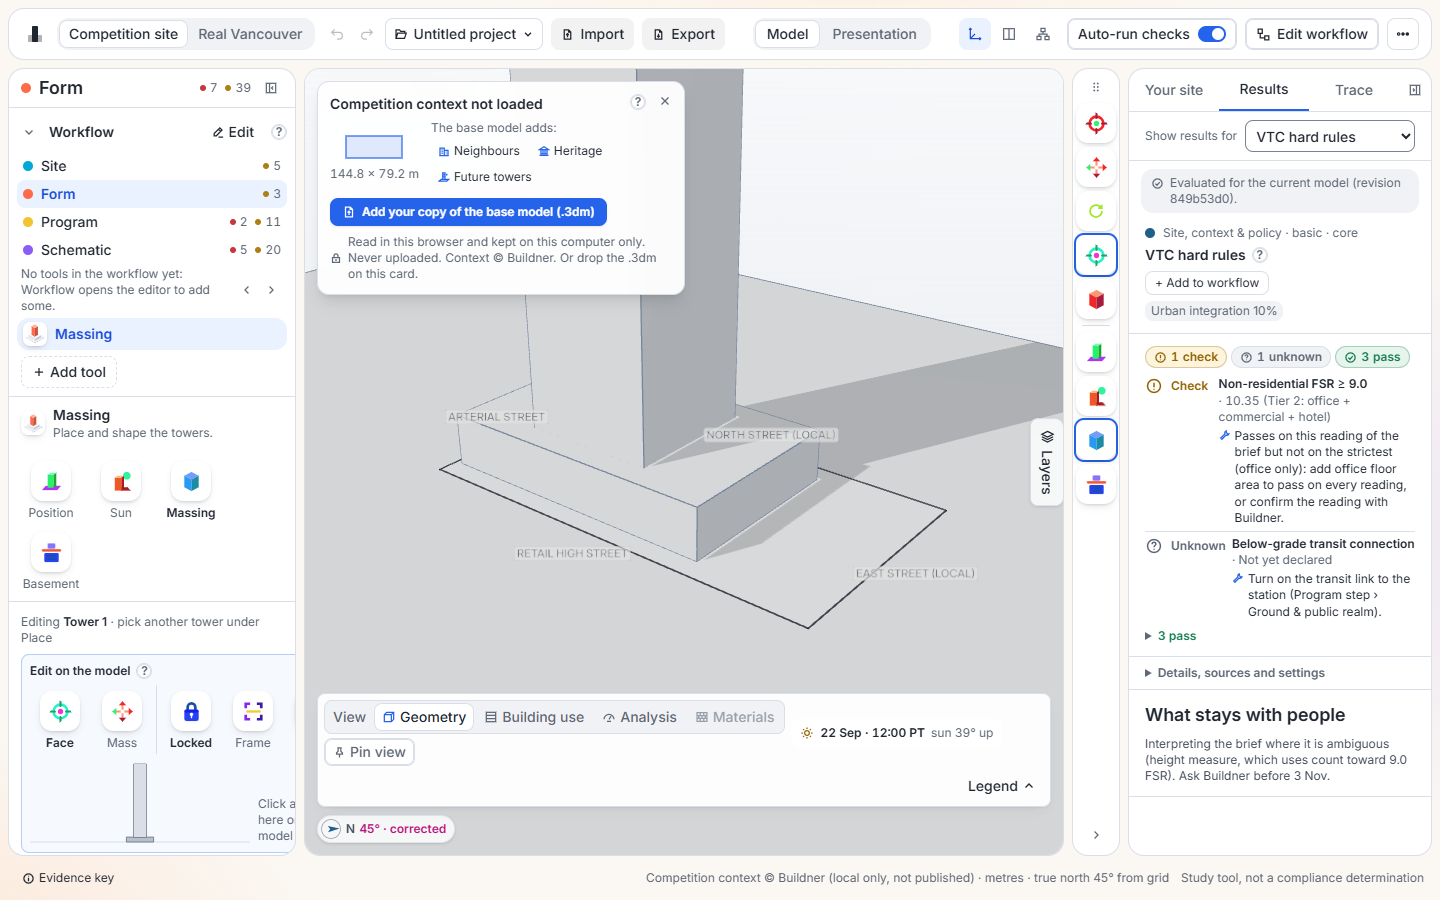
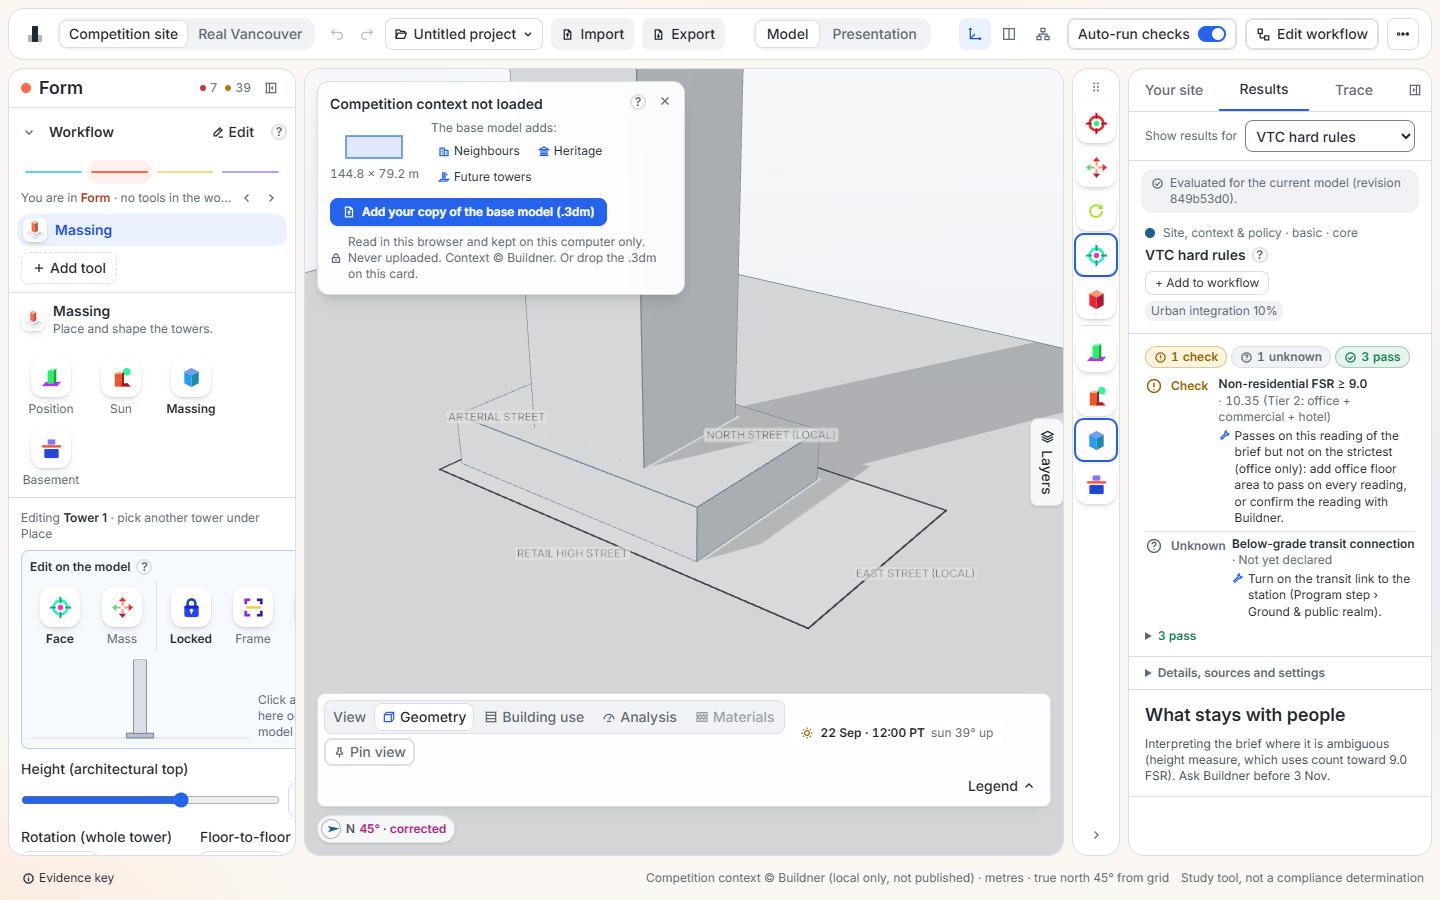
Workflow block: the phase rows go; the line's coloured segments and the arrows change phase (Ruijie, 17 Nov)
"Remove all the Site / Form / Program / Schematic text … the left and right arrows can be the buttons for changing
which phase you are in." One coloured segment per phase on the dots line, the current one tinted, each a button with
the phase's name and counts for the keyboard and screen readers and the same data-phase / data-step hooks as before;
its tools as dots inside, named on hover with their results. The arrows step the design phases, disabled at the ends.

Changed region(s): [[0.0, 0.1867, 0.2188, 0.9644], [0.1562, 0.1867, 0.1875, 0.2178], [0.125, 0.2178, 0.1562, 0.2489]]

diff --git a/src/components/workflow/PhasePanel.tsx b/src/components/workflow/PhasePanel.tsx
@@ -26,6 +26,7 @@ import { PHASE_COLOR, UI } from '../../lib/design/tokens'
 import { PHASES, type PhaseId } from '../../lib/phases'
 import { MODE_NAME, modeOfPhase, phasesOf, type Mode } from '../../lib/mode'
 import { usePhaseCounts, type PhaseCounts } from '../../lib/workflow/phaseCounts'
+import { useNodeSummaries } from '../../hooks/useNodeSummaries'
 import type { NodePackage } from '../../lib/nodePackages'
 import { togglePanel, usePanels } from '../../lib/panels'
 import { goToStep, useStep } from '../../lib/step'
@@ -144,16 +145,15 @@ function PhaseWorkflow({ phase, mode, counts, rows, design, active, open, info, 
           <span className="ml-auto flex items-center gap-1 rounded-lg border border-line bg-panel px-2 py-0.5 text-control text-ink group-hover:border-accent group-hover:text-accent-hover"><PencilLine size={13} aria-hidden />Edit</span>
         </button>
         <Help label={`About the ${PHASE_NAME[phase]} workflow`}>
-          The dots are your whole workflow in working order, coloured by phase; the tinted ones are {PHASE_NAME[phase]}, where you are, and an arc is a loop back to an earlier tool (hover a dot for its name). Under them are the {PHASE_NAME[phase]} tools: click one to open its controls below (a check's results open on the right). Workflow (or Edit) opens the editor in the centre view, where you add tools from the shelf, drag them, connect them and make loops, then Confirm to come back here. A loop is a route for revisiting work: it never reruns anything on its own.
+          The line is your whole workflow in working order, one coloured segment per phase; the tinted one is {PHASE_NAME[phase]}, where you are. Click a segment or use the arrows under the line to change phase; hover a dot for its tool and its results; an arc is a loop back to an earlier tool. Under them are the {PHASE_NAME[phase]} tools: click one to open its controls below (a check's results open on the right). Workflow (or Edit) opens the editor in the centre view, where you add tools from the shelf, drag them, connect them and make loops, then Confirm to come back here. A loop is a route for revisiting work: it never reruns anything on its own.
         </Help>
       </div>
-      <PhaseList phase={phase} mode={mode} counts={counts} />
+      <PhaseLine board={board} phase={phase} mode={mode} active={active} info={info} home={home} counts={counts} />
 
       {collapsed
         ? <button type="button" onClick={() => usePhaseTools.getState().setCollapsed(false)} className="mx-3 mt-1 block max-w-[calc(100%-1.5rem)] truncate rounded px-1 text-left text-meta text-ink outline-none hover:bg-subtle focus-visible:ring-2 focus-visible:ring-accent" title="Show the workflow">{summary}{loops ? ' ↻' : ''}</button>
         : (
           <>
-            <PhaseMap board={board} phase={phase} mode={mode} active={active} info={info} home={home} />
             <div className="mt-1 max-h-[13.5rem] overflow-y-auto overscroll-contain" style={{ scrollbarWidth: 'thin' }} data-testid="phase-workflow-region">
               <ol aria-label={`${PHASE_NAME[phase]} tools, in working order`} data-testid="phase-rows" className="px-2">
                 {rows.map((id) => {
@@ -187,50 +187,88 @@ function PhaseWorkflow({ phase, mode, counts, rows, design, active, open, info, 
 }
 
 /**
- * The whole workflow at a glance: every tool as a dot in working order, coloured by its phase, on one line from start to
- * end; the dots of the phase you are in sit on a tint, the open tool is ringed, and each loop is an arc back over the
- * line. A picture, not a row of buttons: with many tools the dots are far smaller than a 24 px target (interface gate,
- * UI07), so tools open from the list under it and the editor; each dot names its tool on hover and to screen readers.
+ * The phases and the whole workflow on one line (Ruijie, 17 Nov: "remove all the Site / Form / Program / Schematic text
+ * … the left and right arrows can be the buttons for changing which phase you are in"). One coloured segment per phase
+ * of the mode, as wide as its share of tools (at least one share, so an empty phase still shows its colour), the one
+ * you are in on a tint; a click or the arrow keys on a segment go there (it is the phase navigation: the
+ * "Design process" landmark with each phase's hooks). Inside each segment, its tools as dots in working order, the
+ * open one ringed; hovering a dot names its phase and tool with the tool's pass / check / fail words (hooks/
+ * useNodeSummaries.ts), and a click on a dot goes to its phase. Loops are arcs over the line. Under it, where you are,
+ * and the arrows to the previous and the next phase of the mode (never wrapping; Presentation is the top bar's switch).
  */
-function PhaseMap({ board, phase, mode, active, info, home }: { board: Board; phase: PhaseId; mode: Mode; active: string; info: (id: string) => Info; home: (id: string) => PhaseId }) {
+function PhaseLine({ board, phase, mode, active, info, home, counts }: { board: Board; phase: PhaseId; mode: Mode; active: string; info: (id: string) => Info; home: (id: string) => PhaseId; counts: PhaseCounts }) {
+  const phases = phasesOf(mode)
   const phaseOf = (id: string): PhaseId => designNode(id)?.phase ?? home(id)
-  // Only this mode's phases (17 Nov): Presentation's tools stay out of the Model line, and the other way round.
-  const order = useMemo(() => { const ps = phasesOf(mode); return runOrder(board).filter((id) => ps.includes(designNode(id)?.phase ?? home(id))) }, [board, mode, home])
+  // Only this mode's phases: Presentation's tools stay out of the Model line, and the other way round.
+  const order = useMemo(() => runOrder(board).filter((id) => phases.includes(designNode(id)?.phase ?? home(id))), [board, phases, home])
   const back = useMemo(() => returnEdges(board.edges), [board.edges])
-  // An empty workflow still has Back and Next: the phases are there before any tool is.
-  if (!order.length) return <div className="mx-3 mt-0.5 flex items-center gap-1" data-testid="phase-map"><p className="min-w-0 flex-1 text-meta text-muted">No tools in the workflow yet: Workflow opens the editor to add some.</p><PhaseNav phase={phase} /></div>
-  const n = order.length, x = (id: string) => ((order.indexOf(id) + 0.5) / n) * 100
+  const summaries = useNodeSummaries()
+  const segs = phases.map((p) => ({ p, nodes: order.filter((id) => phaseOf(id) === p) }))
+  const total = segs.reduce((acc, g) => acc + Math.max(1, g.nodes.length), 0)
+  // A node's place along the line, in per cent: its segment's start plus its share of the segment.
+  const x = (id: string) => {
+    let off = 0
+    for (const g of segs) { const w = Math.max(1, g.nodes.length), j = g.nodes.indexOf(id); if (j >= 0) return ((off + ((j + 0.5) / g.nodes.length) * w) / total) * 100; off += w }
+    return 0
+  }
   const loops = board.edges.filter((e) => back.has(edgeKey(e)) && order.includes(e.a) && order.includes(e.b))
-  const here = order.filter((id) => phaseOf(id) === phase).length
+  const n = order.length, here = order.filter((id) => phaseOf(id) === phase).length
+  const onKey = (e: KeyboardEvent<HTMLButtonElement>) => {
+    const i = phases.indexOf(phase)
+    const j = e.key === 'ArrowRight' || e.key === 'ArrowDown' ? i + 1 : e.key === 'ArrowLeft' || e.key === 'ArrowUp' ? i - 1 : e.key === 'Home' ? 0 : e.key === 'End' ? phases.length - 1 : null
+    if (j === null) return
+    e.preventDefault()
+    const next = phases[(j + phases.length) % phases.length]
+    goToStep(PHASE_STEP[next])
+    document.querySelector<HTMLElement>(`nav[aria-label="Design process"] [data-phase="${next}"]`)?.focus()
+  }
+  const words = (p: PhaseId) => { const c = counts[p]; return c && (c.fail || c.warn) ? `, ${[c.fail ? `${c.fail} fail` : '', c.warn ? `${c.warn} check` : ''].filter(Boolean).join(', ')}` : '' }
   return (
-    <div className="mx-3 mt-0.5" data-testid="phase-map">
+    <nav aria-label="Design process" data-testid="phase-line" className="mx-3 mt-0.5">
       <svg viewBox="0 0 100 10" preserveAspectRatio="none" className="block h-2.5 w-full overflow-visible" aria-hidden>
         {loops.map((e) => <path key={edgeKey(e)} data-map-loop={edgeKey(e)} d={`M${x(e.a)},10 C${x(e.a)},0 ${x(e.b)},0 ${x(e.b)},10`} fill="none" stroke={UI.edge} strokeWidth={1.2} strokeDasharray="3 2" vectorEffect="non-scaling-stroke" />)}
       </svg>
-      <div className="relative">
-        <span aria-hidden className="absolute inset-x-1 top-1/2 h-px -translate-y-1/2 bg-boundary" />
-        <ol className="relative flex" aria-label="The whole workflow, in working order">
-          {order.map((id, i) => {
-            const ph = phaseOf(id), on = ph === phase, open = id === active
-            const prevOn = i > 0 && phaseOf(order[i - 1]) === phase, nextOn = i < n - 1 && phaseOf(order[i + 1]) === phase
-            return (
-              <li key={id} className="min-w-0 flex-1">
-                <span data-map-node={id} data-here={on ? '' : undefined} title={`${i + 1}. ${PHASE_NAME[ph]} / ${info(id).name}`}
-                  className={`flex h-6 w-full items-center justify-center ${on && !prevOn ? 'rounded-l-full' : ''} ${on && !nextOn ? 'rounded-r-full' : ''}`}
-                  style={{ background: on ? PHASE_COLOR[ph].surface : undefined }}>
-                  <span aria-hidden className="block rounded-full" style={{ width: open ? 10 : 7, height: open ? 10 : 7, background: PHASE_COLOR[ph].accent, boxShadow: open ? `0 0 0 2px #fff, 0 0 0 3.5px ${PHASE_COLOR[ph].ink}` : undefined }} />
-                  <span className="sr-only">{i + 1} of {n}: {PHASE_NAME[ph]} / {info(id).name}{open ? ' (open)' : ''}</span>
+      <ol role="list" aria-label="The phases, each with its tools in working order" data-testid="phase-map" className="flex gap-px">
+        {segs.map(({ p, nodes }) => {
+          const lit = p === phase, about = PHASES.find((ph) => ph.id === p)?.about
+          return (
+            <li key={p} className="relative min-w-0" style={{ flex: `${Math.max(1, nodes.length)} 1 0%` }}>
+              {/* The phase itself: its hook, name and counts for the keyboard and screen readers; the tint when you are in it.
+                  Its colour line and its dots sit inside the button, so a click on a dot is a click on the phase. */}
+              <button type="button" onClick={() => goToStep(PHASE_STEP[p])} onKeyDown={onKey} aria-current={lit ? 'step' : undefined} tabIndex={lit ? 0 : -1} data-step={PHASE_STEP[p]} data-phase={p}
+                aria-label={`${PHASE_NAME[p]}: ${nodes.length} tool${nodes.length === 1 ? '' : 's'}${words(p)}`} title={`${PHASE_NAME[p]}${about ? ` · ${about}` : ''}`}
+                className={`relative block h-6 w-full rounded-full outline-none focus-visible:ring-2 focus-visible:ring-accent ${lit ? '' : 'hover:bg-subtle'}`} style={{ background: lit ? PHASE_COLOR[p].surface : undefined }}>
+                {/* Its colour, always, so the categories read without words. */}
+                <span aria-hidden className="pointer-events-none absolute inset-x-1 top-1/2 h-[2px] -translate-y-1/2 rounded-full" style={{ background: PHASE_COLOR[p].accent, opacity: lit ? 1 : 0.6 }} />
+                <span aria-hidden className="absolute inset-0 flex">
+                  {nodes.map((id) => {
+                    const open = id === active, sum = summaries[id]
+                    return (
+                      <span key={id} data-map-node={id} data-here={lit ? '' : undefined} title={`${PHASE_NAME[p]} / ${info(id).name}${sum ? ` · ${sum}` : ''}`} className="flex min-w-0 flex-1 items-center justify-center">
+                        <span className="block rounded-full" style={{ width: open ? 10 : 7, height: open ? 10 : 7, background: PHASE_COLOR[p].accent, boxShadow: open ? `0 0 0 2px #fff, 0 0 0 3.5px ${PHASE_COLOR[p].ink}` : '0 0 0 1.5px #fff' }} />
+                      </span>
+                    )
+                  })}
                 </span>
-              </li>
-            )
-          })}
-        </ol>
-      </div>
+              </button>
+              {/* The tools of the phase for screen readers (the dots are drawn, not read). */}
+              {nodes.length > 0 && (
+                <ul className="sr-only">
+                  {nodes.map((id) => { const sum = summaries[id]; return <li key={id}>{order.indexOf(id) + 1} of {n}: {PHASE_NAME[p]} / {info(id).name}{sum ? `, ${sum}` : ''}{id === active ? ' (open)' : ''}</li> })}
+                </ul>
+              )}
+            </li>
+          )
+        })}
+      </ol>
       <div className="mt-0.5 flex items-center gap-1">
-        <p className="min-w-0 flex-1 truncate text-meta text-muted">You are in <span className="font-semibold" style={{ color: PHASE_COLOR[phase].ink }}>{PHASE_NAME[phase]}</span>: {here} of {n} tools{loops.length ? ` · ${loops.length} loop${loops.length > 1 ? 's' : ''}` : ''}</p>
-        <PhaseNav phase={phase} />
+        <p className="min-w-0 flex-1 truncate text-meta text-muted">
+          {n ? <>You are in <span className="font-semibold" style={{ color: PHASE_COLOR[phase].ink }}>{PHASE_NAME[phase]}</span>: {here} of {n} tools{loops.length ? ` · ${loops.length} loop${loops.length > 1 ? 's' : ''}` : ''}</>
+            : <>You are in <span className="font-semibold" style={{ color: PHASE_COLOR[phase].ink }}>{PHASE_NAME[phase]}</span> · no tools in the workflow yet: Edit adds some</>}
+        </p>
+        <PhaseNav phase={phase} mode={mode} />
       </div>
-    </div>
+    </nav>
   )
 }
 
@@ -251,53 +289,14 @@ function Counts({ c }: { c: { fail: number; warn: number } }) {
   )
 }
 
-/**
- * The phases of the mode, one short row each (Ruijie, 17 Nov: "keep the phase colours and their categories, but make it
- * simpler and save more space"): its colour dot, its name and its fail / check counts; the one you are in lit. This is
- * the phase navigation (the row under the top bar went the same day): a click goes there, the arrow keys move along it,
- * Home and End to the ends. What a phase is for shows on hover. In Presentation the list is that mode's one phase.
- */
-function PhaseList({ phase, mode, counts }: { phase: PhaseId; mode: Mode; counts: PhaseCounts }) {
-  const phases = phasesOf(mode)
-  const onKey = (e: KeyboardEvent<HTMLButtonElement>) => {
-    const i = phases.indexOf(phase)
-    const j = e.key === 'ArrowRight' || e.key === 'ArrowDown' ? i + 1 : e.key === 'ArrowLeft' || e.key === 'ArrowUp' ? i - 1 : e.key === 'Home' ? 0 : e.key === 'End' ? phases.length - 1 : null
-    if (j === null) return
-    e.preventDefault()
-    const next = phases[(j + phases.length) % phases.length]
-    goToStep(PHASE_STEP[next])
-    document.querySelector<HTMLElement>(`nav[aria-label="Design process"] [data-phase="${next}"]`)?.focus()
-  }
-  return (
-    <nav aria-label="Design process" data-testid="phase-list" className="px-2 pt-1">
-      <ol role="list" className="flex flex-col">
-        {phases.map((p) => {
-          const lit = p === phase, c = counts[p]
-          return (
-            <li key={p}>
-              <button type="button" onClick={() => goToStep(PHASE_STEP[p])} onKeyDown={onKey} aria-current={lit ? 'step' : undefined} tabIndex={lit ? 0 : -1} data-step={PHASE_STEP[p]} data-phase={p}
-                title={PHASES.find((x) => x.id === p)?.about}
-                className={`flex h-7 w-full min-w-0 items-center gap-2 rounded-lg px-1.5 text-left text-control outline-none focus-visible:ring-2 focus-visible:ring-accent ${lit ? 'bg-selected font-semibold text-accent-hover' : 'text-ink hover:bg-subtle'}`}>
-                <span aria-hidden className="h-2.5 w-2.5 shrink-0 rounded-full" style={{ background: PHASE_COLOR[p].accent }} />
-                <span className="min-w-0 flex-1 truncate">{PHASE_NAME[p]}</span>
-                {c && (c.fail || c.warn) ? <span className="flex shrink-0 items-center gap-2 text-meta font-normal tabular-nums text-muted"><Counts c={c} /></span> : null}
-              </button>
-            </li>
-          )
-        })}
-      </ol>
-    </nav>
-  )
-}
-
-/** Back and Next: the previous and the next phase, across the modes (Next from Schematic is Presentation). */
-function PhaseNav({ phase }: { phase: PhaseId }) {
-  const i = PHASE_IDS.indexOf(phase), prev = PHASE_IDS[i - 1], next = PHASE_IDS[i + 1]
+/** The previous and the next phase of the mode (Ruijie, 17 Nov): disabled at the ends, never wrapping; Presentation is the top bar's switch. */
+function PhaseNav({ phase, mode }: { phase: PhaseId; mode: Mode }) {
+  const phases = phasesOf(mode), i = phases.indexOf(phase), prev = phases[i - 1], next = phases[i + 1]
   const btn = 'flex h-6 w-6 shrink-0 items-center justify-center rounded text-muted outline-none hover:bg-subtle hover:text-ink focus-visible:ring-2 focus-visible:ring-accent disabled:opacity-40 disabled:hover:bg-transparent'
   return (
     <span className="flex shrink-0 items-center">
-      <button type="button" disabled={!prev} onClick={() => prev && goToStep(PHASE_STEP[prev])} data-testid="phase-back" aria-label={prev ? `Back: ${PHASE_NAME[prev]}` : 'Back'} title={prev ? `Back to ${PHASE_NAME[prev]}` : undefined} className={btn}><ChevronLeft size={14} aria-hidden /></button>
-      <button type="button" disabled={!next} onClick={() => next && goToStep(PHASE_STEP[next])} data-testid="phase-next" aria-label={next ? `Next: ${PHASE_NAME[next]}` : 'Next'} title={next ? `Next: ${PHASE_NAME[next]}` : undefined} className={btn}><ChevronRight size={14} aria-hidden /></button>
+      <button type="button" disabled={!prev} onClick={() => prev && goToStep(PHASE_STEP[prev])} data-testid="phase-back" aria-label={prev ? `Previous phase: ${PHASE_NAME[prev]}` : 'Previous phase: none, this is the first'} title={prev ? `Previous phase: ${PHASE_NAME[prev]}` : undefined} className={btn}><ChevronLeft size={14} aria-hidden /></button>
+      <button type="button" disabled={!next} onClick={() => next && goToStep(PHASE_STEP[next])} data-testid="phase-next" aria-label={next ? `Next phase: ${PHASE_NAME[next]}` : 'Next phase: none, this is the last'} title={next ? `Next phase: ${PHASE_NAME[next]}` : undefined} className={btn}><ChevronRight size={14} aria-hidden /></button>
     </span>
   )
 }

diff --git a/e2e/model-presentation.e2e.ts b/e2e/model-presentation.e2e.ts
@@ -56,6 +56,9 @@ test('Model | Presentation: the switch replaces the phase row; the phases list i
   await p.screenshot({ path: join(SHOTS, '01-model.png') })
 
   // A phase dot navigates; Back and Next walk the phases; the arrow keys move along the list.
+  // No phase-name rows (17 Nov): the hooks are the line's coloured segments, which carry no visible text.
+  expect(await nav(p).locator('[data-phase]').evaluateAll((els) => els.map((e) => (e.textContent ?? '').trim()))).toEqual(['', '', '', ''])
+  await expect(nav(p).locator('[data-phase="site"]')).toHaveAttribute('aria-label', /^Site: /)
   await nav(p).locator('[data-phase="program"]').click()
   await expect(panel(p)).toHaveAttribute('data-phase', 'program')
   await expect(nav(p).locator('[data-phase="program"]')).toHaveAttribute('aria-current', 'step')
@@ -66,10 +69,17 @@ test('Model | Presentation: the switch replaces the phase row; the phases list i
   await p.keyboard.press('ArrowDown')
   await expect(panel(p)).toHaveAttribute('data-phase', 'program')
   await expect(nav(p).locator('[data-phase="program"]')).toBeFocused()
+  await expect(p.getByTestId('phase-next')).toHaveAccessibleName('Next phase: Schematic')
   await p.getByTestId('phase-next').click()
   await expect(panel(p)).toHaveAttribute('data-phase', 'schematic')
-  // Next from Schematic is Presentation: the switch follows.
-  await p.getByTestId('phase-next').click()
+  // The arrows stop at the ends (Site and Schematic) and never wrap; Presentation is the switch.
+  await expect(p.getByTestId('phase-next')).toBeDisabled()
+  await expect(p.getByTestId('phase-back')).toHaveAccessibleName('Previous phase: Program')
+  await nav(p).locator('[data-phase="site"]').click()
+  await expect(p.getByTestId('phase-back')).toBeDisabled()
+  await expect(p.getByTestId('phase-next')).toHaveAccessibleName('Next phase: Form')
+  await nav(p).locator('[data-phase="schematic"]').click()
+  await radio(p, 'Presentation').click()
   await expect(radio(p, 'Presentation')).toHaveAttribute('aria-checked', 'true')
   await expect(panel(p)).toHaveAttribute('data-phase', 'present')
 
@@ -79,7 +89,7 @@ test('Model | Presentation: the switch replaces the phase row; the phases list i
   await expect(panel(p).getByTestId('filmstrip')).toBeVisible()
   await expect(p.getByRole('complementary', { name: 'Present and results' }).getByRole('tab', { name: 'Present' })).toHaveAttribute('aria-selected', 'true')
   expect(await phases(p)).toEqual(['present'])
-  await expect(nav(p).locator('[data-phase="present"]')).toContainText('Presentation')
+  await expect(nav(p).locator('[data-phase="present"]')).toHaveAttribute('aria-label', /^Presentation: /)
   await expect(rail(p).locator('[data-tool="boards"]')).toBeVisible()
   await expect(rail(p).locator('[data-tool="capture"]')).toBeVisible()
   await expect(rail(p).locator('[data-mode]')).toHaveCount(0)

diff --git a/CHECKPOINT.md b/CHECKPOINT.md
@@ -1,3 +1,21 @@
+# CHECKPOINT: the phase rows go; the line's segments and the arrows are the phase navigation (17 Nov 2026)
+
+Ruijie, 17 Nov: "remove all the Site / Form / Program / Schematic text … the left and right arrows can be the buttons
+for changing which phase you are in." Branch `phase-dots` from the `board-fonts` tip. Not merged, not deployed.
+- `PhasePanel.tsx` `PhaseLine` replaces `PhaseList` + `PhaseMap`: one coloured segment per phase of the mode (as wide as
+  its share of tools, at least one share, the current one tinted), each a 24 px button carrying the `data-phase` /
+  `data-step` / `aria-current="step"` hooks and the name with its counts as its accessible name ("Form: 3 tools, 2 fail,
+  1 check"), the arrow keys moving along it; the tools as dots inside the segment (hover: phase / tool · its pass /
+  check / fail words from the live digest; a click on a dot is a click on the phase), the open tool ringed, loop arcs
+  above; a screen-reader list of each phase's tools beside it. The `nav[aria-label="Design process"]` landmark stays,
+  so every e2e helper works unchanged. The ‹ › arrows ("Previous phase: Form", "Next phase: Program") step the design
+  phases only, disabled at Site and Schematic, never wrapping; Presentation stays on the top bar's switch. The panel
+  header keeps the phase name and its totals; Edit and Add tool stay.
+- **Tests:** `tsc -b` PASS · `vitest run` 1,243 pass (the same 2 CRLF data-file checks fail in this worktree only) ·
+  Edge e2e: `model-presentation` (extended: no phase-name text in the landmark, the arrows' names and their disabled
+  ends) PASS · `phase-panel` PASS · `journeys` PASS · `tool-rail` PASS. Screenshot:
+  `docs/evaluation/2026-11-17-model-presentation/01-model.png`.
+
 # CHECKPOINT: board fonts in Presentation (17 Nov 2026)
 
 Brief (Ruijie, 17 Nov): "On the presentation layout, I'd like an option to change the font, and users can also download
